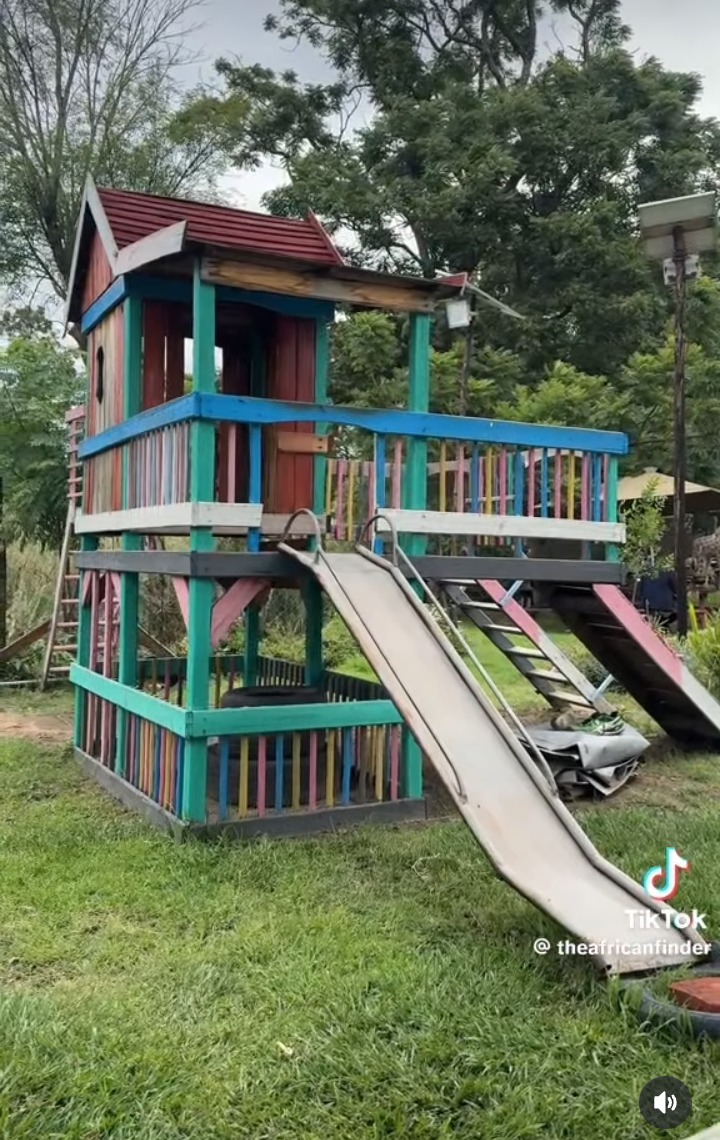
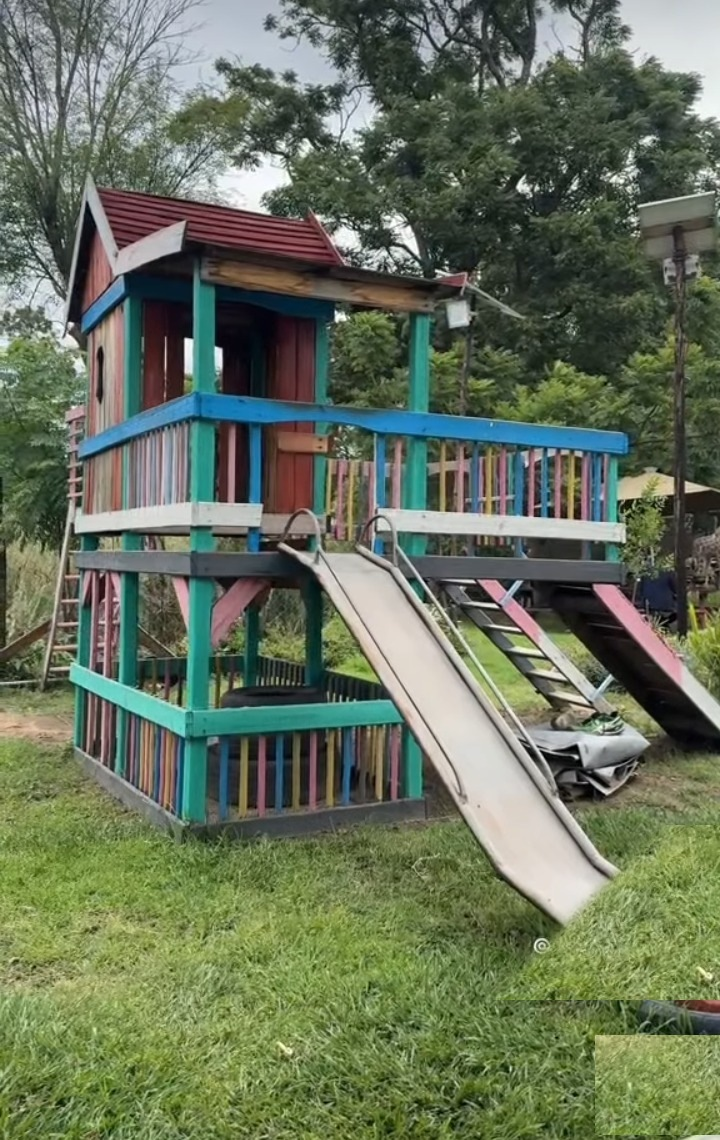
Remove the TikTok watermark from the play-area photo; round the gallery lightbox corners
The watermark removal needed a diagonal polygon mask rather than a
rectangle -- the slide's edge cuts diagonally through the exact area
the watermark sits in, so a straight rectangular patch either erased
part of the slide or left text peeking through. Traced the actual
diagonal boundary and patched only what's to the right of the slide
with clean grass sampled from elsewhere in the same photo. Speaker
icon removed the same way. Small unreadable blur remains where the
text was -- no longer legible as a watermark, which is the bar that
matters here.

Separately: the gallery lightbox (full-screen photo view) had sharp
square corners while every card/thumbnail on the site is now rounded,
which read as inconsistent right after the motion/design pass. Added
rounded-2xl + shadow-lift to match.

Note: if 'Import the launch photos' has already been run in
/admin/gallery, that copied the *old* watermarked file into R2/the
database as its own separate object -- this fix only replaces the
bundled source file. If the watermarked version is still showing
after this deploys, delete that one entry from /admin/gallery and
re-run the import; it'll pick up this cleaned version.

Changed region(s): [[0.7028, 0.7061, 1.0, 1.0]]

diff --git a/src/components/lightbox.tsx b/src/components/lightbox.tsx
@@ -74,7 +74,7 @@ export function Lightbox({
         <img
           src={image.src}
           alt={image.alt}
-          className="max-h-full min-h-0 w-auto max-w-full object-contain"
+          className="max-h-full min-h-0 w-auto max-w-full rounded-2xl object-contain shadow-lift"
         />
         <button
           type="button"
